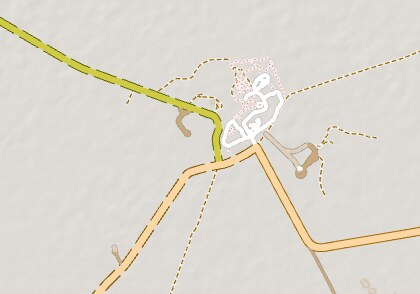
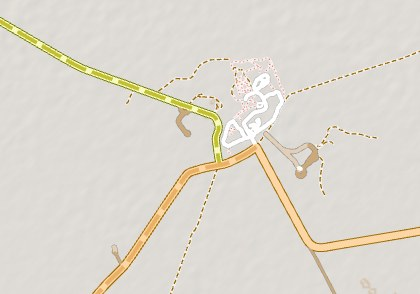
Article: zoom strip in style 3, for a clear step from tint to dashes; crop script

Changed region(s): [[0.0, 0.0612, 0.5881, 0.9796], [0.5881, 0.4898, 0.619, 0.5204], [0.2167, 0.9796, 0.2476, 1.0]]

diff --git a/index.html b/index.html
@@ -308,7 +308,7 @@
 
 <figure class="fig wide"><picture><source media="(max-width: 760px)" srcset="article/img/styles-grid-portrait.jpg"><img src="article/img/styles-grid.jpg" alt="The five styles and No style, side by side, at Namutoni" loading="lazy"></picture><figcaption>The five styles and the same map with no surface signal, at Namutoni (demo, hillshade, zoom 16).</figcaption></figure>
 
-<figure class="fig wide zoom"><div class="row"><figure><img src="article/img/zoom-13.jpg" alt="Style 4 at zoom 13" loading="lazy"><figcaption>Zoom 13</figcaption></figure><figure><img src="article/img/zoom-14.jpg" alt="Style 4 at zoom 14" loading="lazy"><figcaption>Zoom 14</figcaption></figure><figure><img src="article/img/zoom-16.jpg" alt="Style 4 at zoom 16" loading="lazy"><figcaption>Zoom 16</figcaption></figure></div><figcaption>Style 4 from overview to detail, at Namutoni. At zoom 13 the road is under 6 pixels wide, so unpaved shows as a plain, darker tint; the dashes appear from zoom 14. © OpenStreetMap contributors.</figcaption></figure>
+<figure class="fig wide zoom"><div class="row"><figure><img src="article/img/zoom-13.jpg" alt="Style 3 at zoom 13" loading="lazy"><figcaption>Zoom 13</figcaption></figure><figure><img src="article/img/zoom-14.jpg" alt="Style 3 at zoom 14" loading="lazy"><figcaption>Zoom 14</figcaption></figure><figure><img src="article/img/zoom-16.jpg" alt="Style 3 at zoom 16" loading="lazy"><figcaption>Zoom 16</figcaption></figure></div><figcaption>Style 3 from overview to detail, at Namutoni. At zoom 13 the road is under 6 pixels wide, so unpaved shows as a plain, darker tint; from zoom 14 the dashes take over. © OpenStreetMap contributors.</figcaption></figure>
 
 <h2 id="s-7-limits">7. Limits</h2>
 <ul>

diff --git a/scripts/build-article.py b/scripts/build-article.py
@@ -90,9 +90,9 @@ STYLES_GRID = (f'<figure class="fig wide"><picture><source media="(max-width: 76
                '<figcaption>The five styles and the same map with no surface signal, at Namutoni (demo, hillshade, zoom 16).</figcaption></figure>')
 
 ZOOM_STRIP = ('<figure class="fig wide zoom"><div class="row">' + ''.join(
-    f'<figure><img src="{IMG}/zoom-{z}.jpg" alt="Style 4 at zoom {z}" loading="lazy"><figcaption>Zoom {z}</figcaption></figure>' for z in (13, 14, 16)) +
-    '</div><figcaption>Style 4 from overview to detail, at Namutoni. At zoom 13 the road is under 6 pixels wide, so unpaved shows as a plain, '
-    'darker tint; the dashes appear from zoom 14. © OpenStreetMap contributors.</figcaption></figure>')
+    f'<figure><img src="{IMG}/zoom-{z}.jpg" alt="Style 3 at zoom {z}" loading="lazy"><figcaption>Zoom {z}</figcaption></figure>' for z in (13, 14, 16)) +
+    '</div><figcaption>Style 3 from overview to detail, at Namutoni. At zoom 13 the road is under 6 pixels wide, so unpaved shows as a plain, '
+    'darker tint; from zoom 14 the dashes take over. © OpenStreetMap contributors.</figcaption></figure>')
 
 FIGURES = {'slider': SLIDER, 'live demo': EMBED, 'chart': heat_table, 'photo grid': photo_grid, 'apps': app_grid,
            'the five styles side by side': STYLES_GRID, 'one road at zoom': ZOOM_STRIP}

diff --git a/scripts/article-zoom-strip.py b/scripts/article-zoom-strip.py
@@ -1,0 +1,18 @@
+# Zoom strip for the article: one style at zoom 13, 14 and 16 at Namutoni, centre half of each demo shot.
+# Usage: first render the shots (repo served on :8765):
+#   node scripts/shots.mjs --spots namibia --styles dashed-fill --bgs terrain --zooms 13,14,16 --size 840x588 \
+#     --center -18.81068,16.9375 --attribution --out shots/fig-zoom
+# then: python3 scripts/article-zoom-strip.py   -> article/img/zoom-<z>.jpg
+# Style 3 (dashed fill) shows the clearest step from the low-zoom tint to the pattern; style 4's thin outline barely
+# changed between 13 and 14 at this size (2026-11-11).
+from pathlib import Path
+
+from PIL import Image
+
+ROOT = Path(__file__).resolve().parent.parent
+STYLE = 'dashed-fill'
+for z in (13, 14, 16):
+    im = Image.open(ROOT / f'shots/fig-zoom/namibia-{STYLE}-terrain-z{z}.png').convert('RGB')
+    w, h = im.size
+    im.crop((w // 4, h // 4, w // 4 + w // 2, h // 4 + h // 2)).save(ROOT / f'article/img/zoom-{z}.jpg', quality=88)
+    print(f'zoom-{z}.jpg')

diff --git a/LOG.md b/LOG.md
@@ -119,3 +119,4 @@
 - Images in `article/img/` come from `research/examples/images/mapillary/`, `research/examples/screenshots/` and the demo shots (`shots/fig-grid*`, `shots/fig-zoom`, `shots/namibia-fig-w`, not committed).
 - App comparison crops are now registered (`scripts/article-app-crops.py`): two C38 landmarks per screenshot (the Namutoni junction and the bend of the paved leg), scaled to the same length and cropped with the junction at the same point. Plain centre crops did not line up (Komoot and Americana use 512 px tiles; Komoot has its sidebar offset). Komoot and Americana retaken at zoom 14 (`screenshots/namibia-z14/`), which matches the others' zoom 15.
 - Photo grid: Georgia Sh10 frame `-2` (frame `-0` looked like broken concrete), Morocco RR704 instead of RN23 (under works in 2022, possibly paved now). Both noted in the image review.
+- Zoom strip in style 3 (dashed fill) instead of style 4: style 4's thin dashed outline barely changed between zoom 13 and 14 at figure size; style 3 goes clearly from tint (13) to a dashed band (14) to strong dashes (16). Crops: `scripts/article-zoom-strip.py`.
